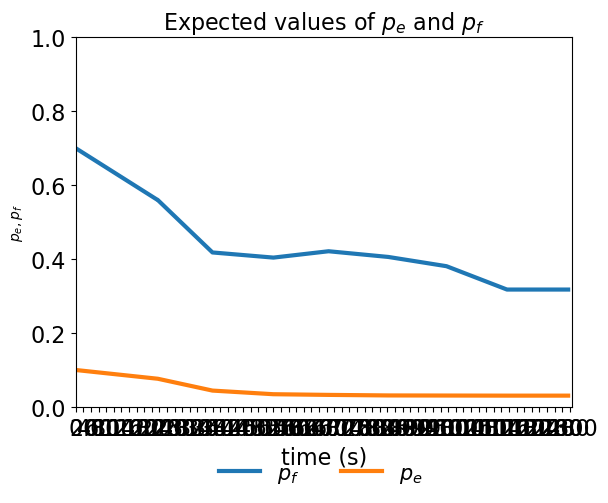
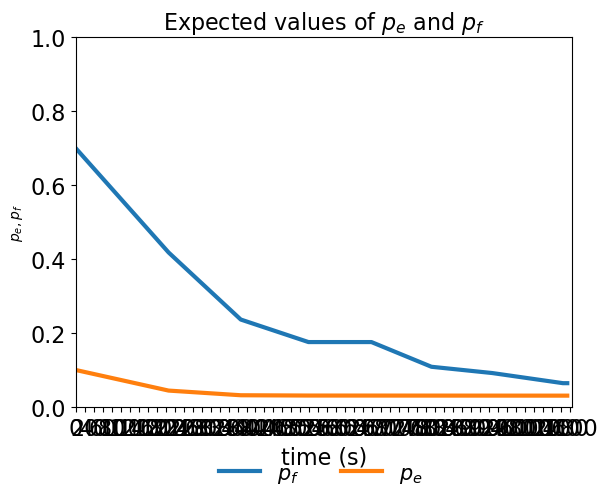
jun22

diff --git a/main.py b/main.py
@@ -8,7 +8,7 @@ import measure
 
 
 human_speed = 1
-pattern_number = 3
+pattern_number = 4
 
 
 # pattern = [
@@ -81,7 +81,7 @@ team_server.start()
 
 
 
-measure = measure.Measure(directory='11520', case_name='task4.pickle')
+measure = measure.Measure(directory='10181', case_name='task4.pickle')
 print('phase1')
 human = human_v2.Human(task=task, team_server=team_server, measure=measure)
 # human.daemon = True

diff --git a/remeasure.py b/remeasure.py
@@ -93,7 +93,7 @@ def plot_frames(data):
         # plt.show()
         figname = 'video1/frame' + str(i) + '.png'
         fig.savefig(figname, format='png', bbox_extra_artists=(lgd,), bbox_inches='tight')
-file = open('15580/task4.pickle', 'rb') #18178
+file = open('17652/task2.pickle', 'rb') #18178
 data = pickle.load(file)
 creat_table(data)
 # plot_frames(data)
